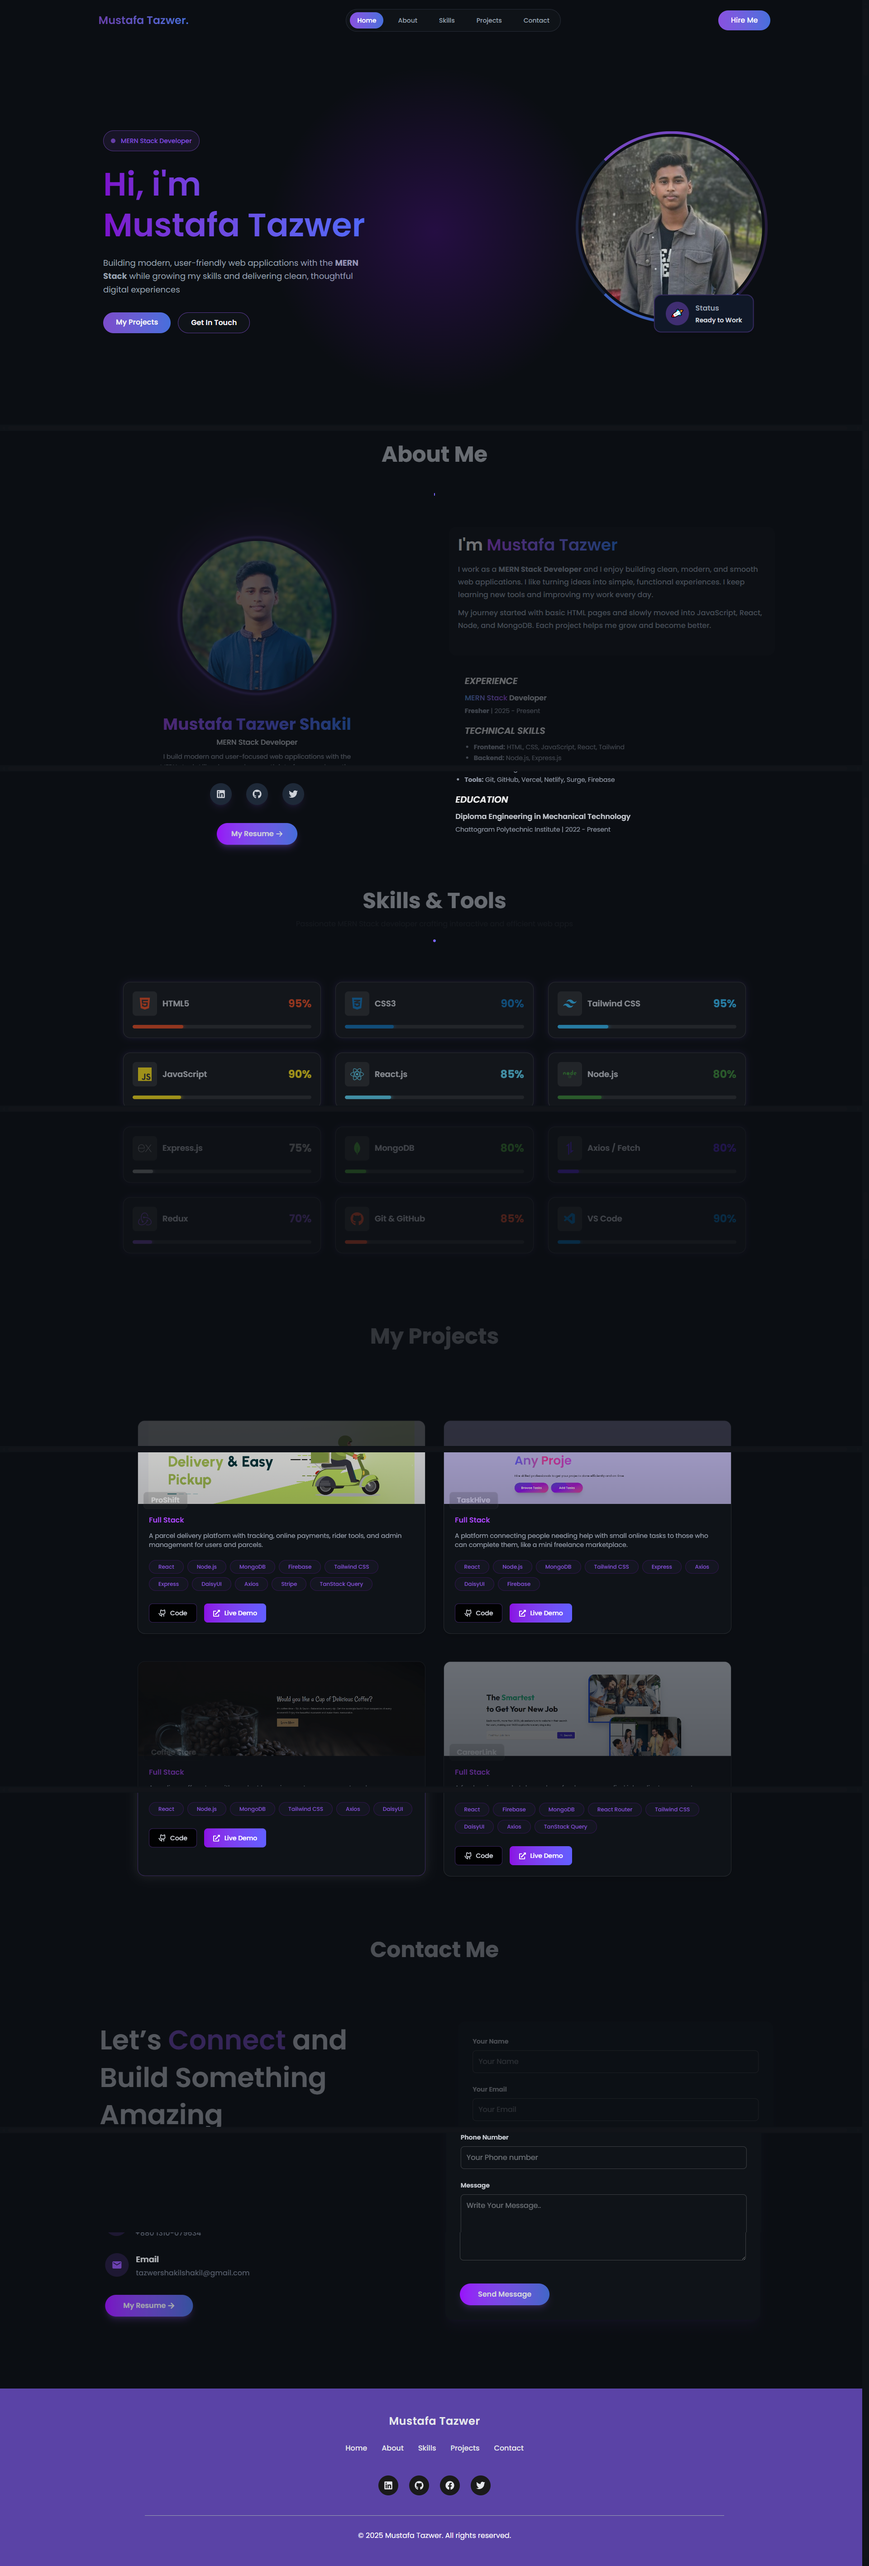
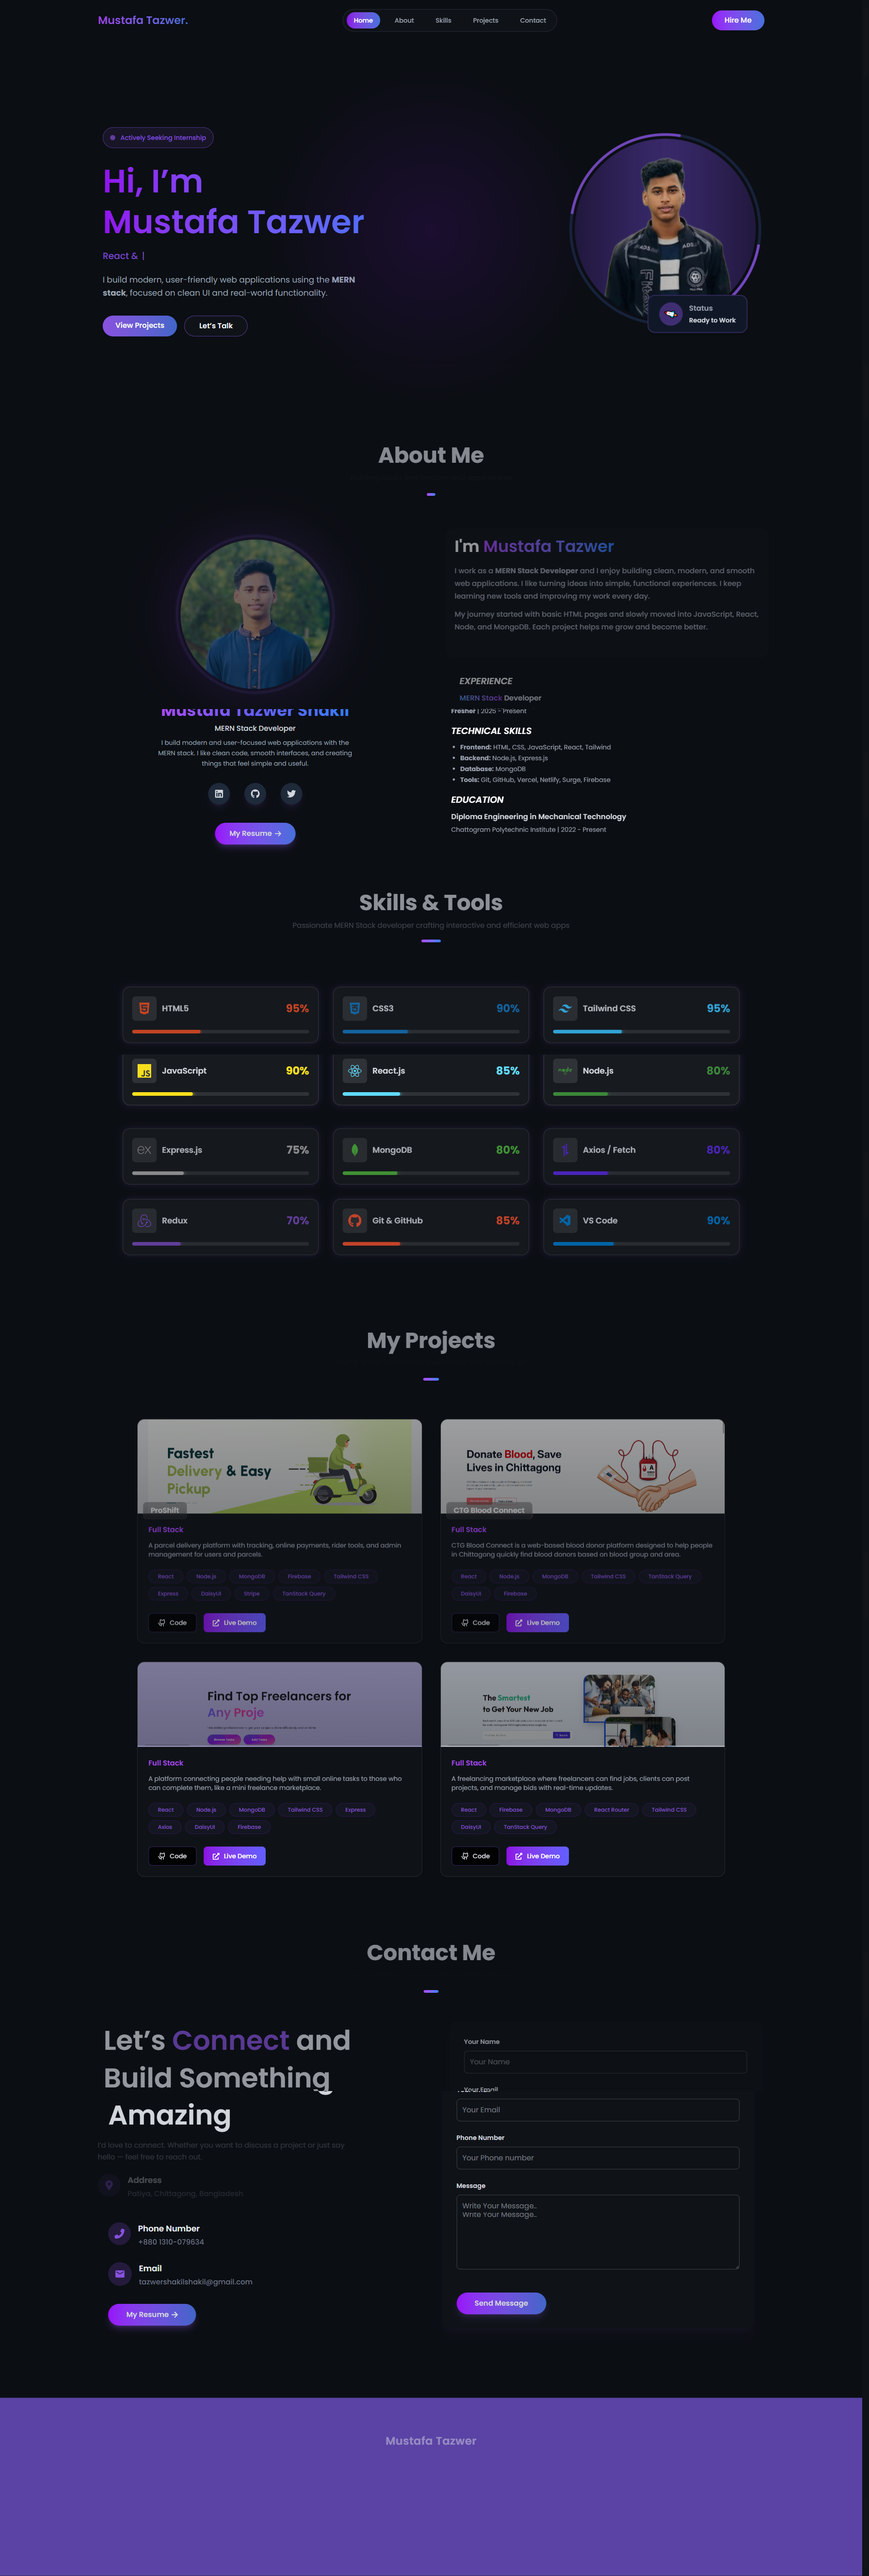
add portfolio full page sceenshot  and fixed README.md

diff --git a/README.md b/README.md
@@ -97,7 +97,7 @@ Mustafa Tazwer
 
 -----
 **Full Page**
-![Portfolio Screenshot](./public/portfolio1.png)
+![Portfolio Screenshot](./public/portfolio.png)
 
 **⭐ If you like this project, please give it a star!**
 
